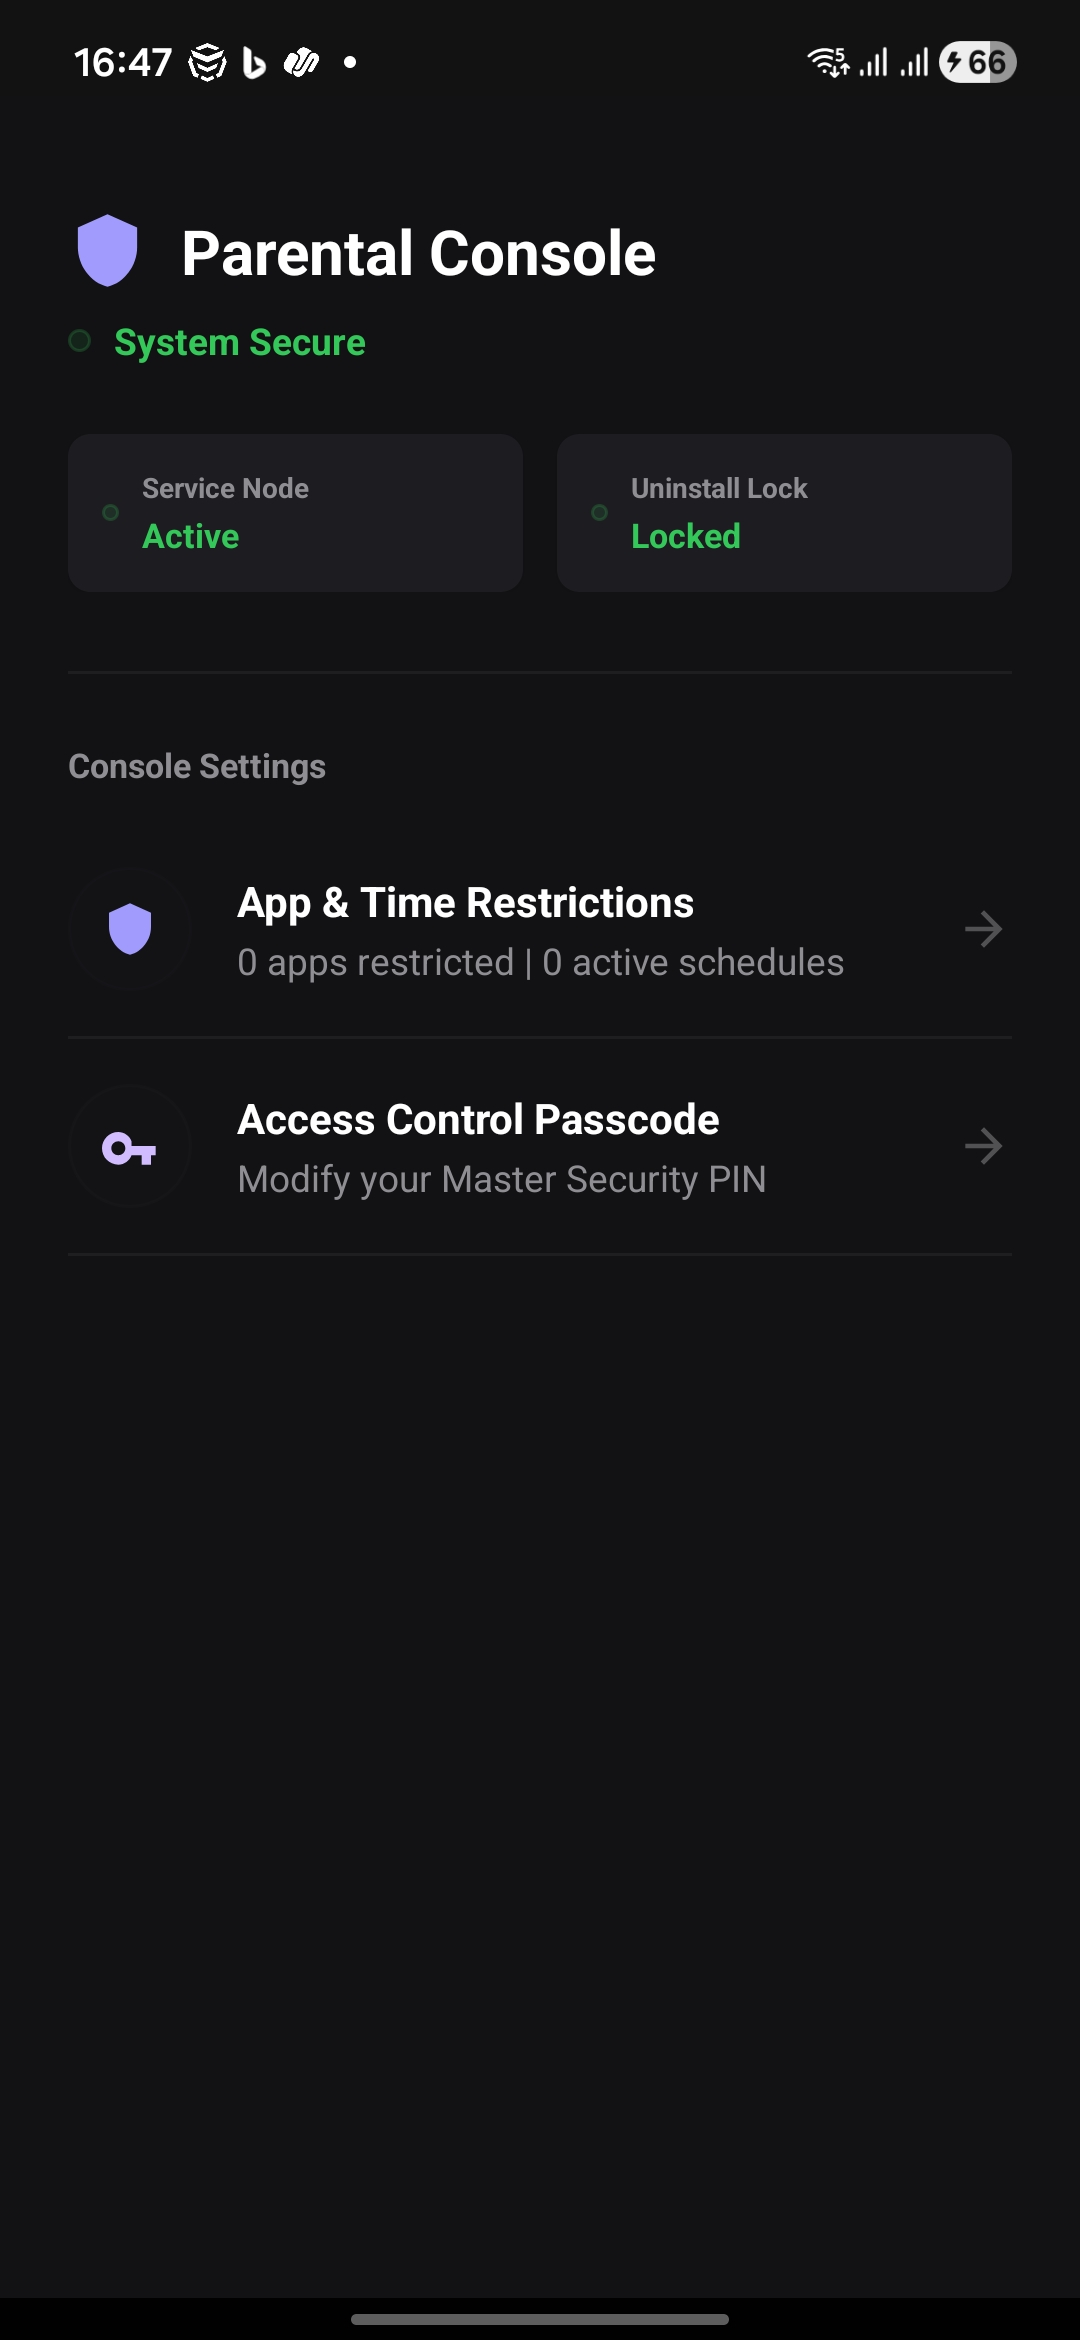
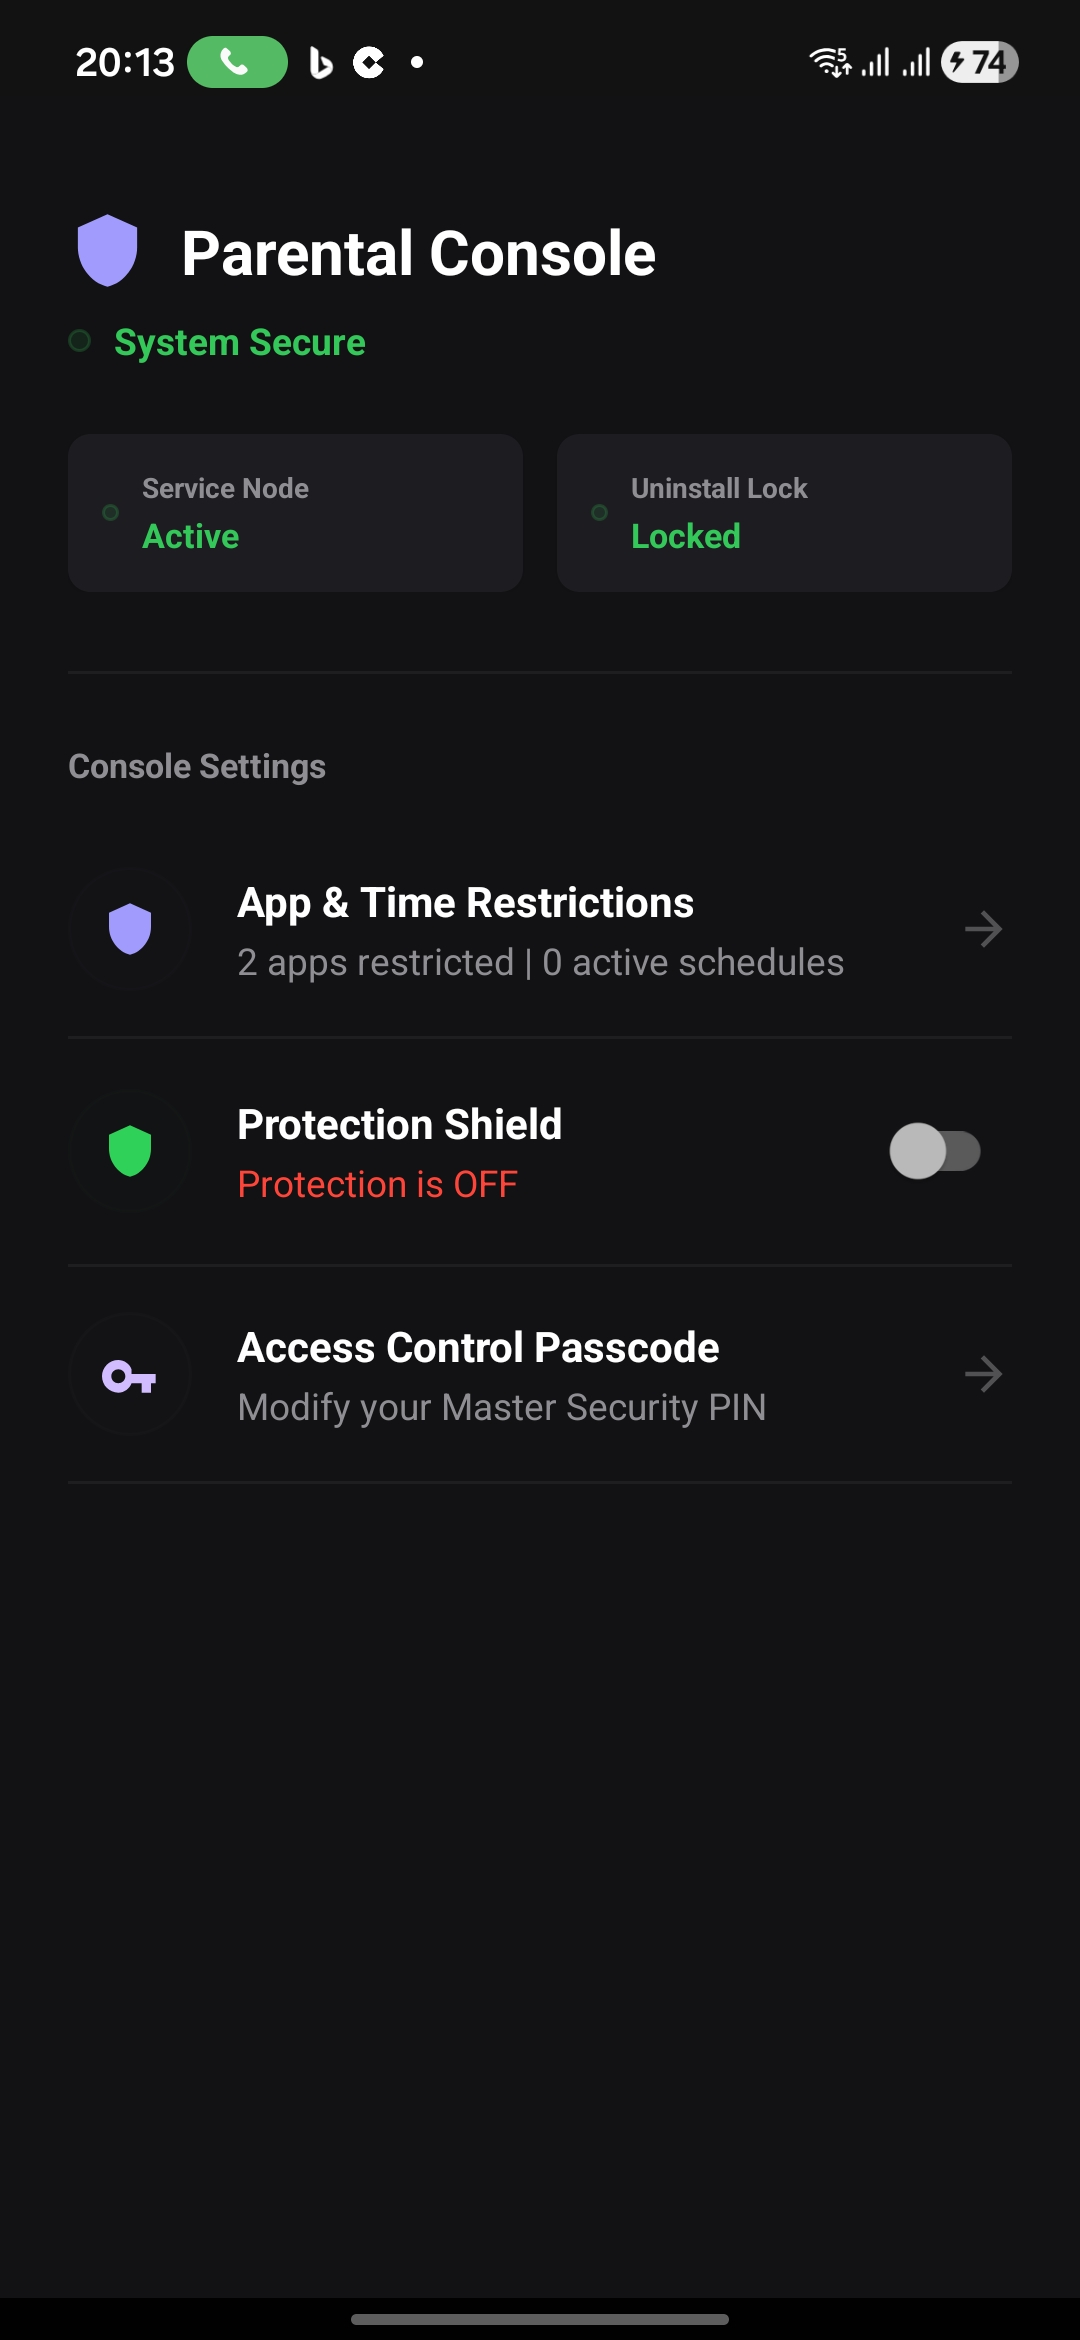
docs: update project documentation and replace primary asset image

diff --git a/README.md b/README.md
@@ -1,6 +1,6 @@
 # Parental Control Android Application
 
-A secure, high-fidelity native Android application engineered for parental device control, content monitoring, and application locking. The system is designed with a handcrafted dark-mode dashboard console, local SHA-256 PIN authentication, dynamic accessibility state listeners, and Package Visibility configurations.
+A secure, lightweight native Android application engineered for parental device control, application locking, and settings protection. Uses a zero-latency WindowManager overlay, instant Settings blocking, and Device Admin anti-uninstall to create an impenetrable lock system.
 
 ## Visual Identity
 
@@ -13,102 +13,159 @@ A secure, high-fidelity native Android application engineered for parental devic
 
 ---
 
+## How It Works
+
+The app uses a three-layer protection model that operates entirely on-device with no network dependency:
+
+### Layer 1: Instant Settings & Installer Blocking
+When the child opens **Settings** or the **Package Installer**, the accessibility service detects it and instantly fires `GLOBAL_ACTION_BACK`. This unwinds their navigation stack before they can tap anything, making it impossible to reach the "Uninstall" or "Disable Accessibility" screens. No overlay, no delay, no brute-force window.
+
+### Layer 2: Zero-Latency PIN Overlay for Blocked Apps
+When a blocked app (e.g., YouTube, Games) is opened, a pre-inflated `WindowManager` overlay draws a full-screen PIN lock in under 10 milliseconds. Because it's drawn by the accessibility service itself (not as a separate Activity), it cannot be swiped away from the Recent Apps menu. Correct PIN entry unlocks the app for the current session with a 15-second grace period for parent access.
+
+### Layer 3: Device Admin Anti-Uninstall
+The app registers as a Device Administrator, which prevents standard uninstallation. Combined with the Settings blocking (Layer 1), the child cannot deactivate this protection.
+
+### Protection Shield Toggle
+A master on/off switch in the dashboard lets parents temporarily disable all blocking without touching Android Accessibility settings. When OFF, the service runs but blocks nothing. When ON, full protection is active.
+
+---
+
 ## Key Capabilities
 
-### Handcrafted Dashboard Redesign
-* **Rectangular Status Badges**: Replaced legacy oval layouts with modern, flat 8dp rounded-corner MaterialCardView elements for accessibility and administration states.
-* **Consolidated System Health**: A unified tri-state system health header (Secure, Action Recommended, Unsecured) updates dynamically depending on device permissions.
-* **Borderless Controls Settings**: Replaced card-nested sections with a modern settings console utilizing horizontal dividers, subtle lavender icons, and right chevrons.
+### Protection Shield Toggle
+* **One-Tap Control**: Enable or disable all blocking from the dashboard instantly.
+* **State Persistence**: Toggle state survives app restarts and screen reboots.
+* **Visual Feedback**: Green status text when active, red when disabled.
+
+### Zero-Latency WindowManager Overlay
+* **Pre-Inflated View**: The PIN screen is built in memory when the service starts, not when an app opens.
+* **TYPE_ACCESSIBILITY_OVERLAY**: Draws above all other windows without requiring the "Display over other apps" permission prompt.
+* **Auto-Relock**: Screen sleep clears all unlocked sessions automatically.
 
 ### Installed Package Discovery (Android 11+ Visibility)
-* Resolves Android package visibility sandbox restrictions on API level 30 and above.
-* Declares the QUERY_ALL_PACKAGES permission, enabling queryIntentActivities to scan and list all installed third-party apps (WhatsApp, YouTube, games) to let parents apply restrictions.
+* Resolves package visibility sandbox restrictions on API level 30+.
+* Declares `QUERY_ALL_PACKAGES` permission to scan and list all installed third-party apps for blocking.
+
+### Time-Based Scheduling
+* Set custom blocked time windows per app (e.g., block games 8 AM – 3 PM on school days).
+* Supports overnight ranges (e.g., 9 PM – 7 AM).
+* Overlap detection prevents conflicting schedules.
 
 ### Secure Offline Keystore Generation
-* An automated generator utility builds self-signed production keys locally using OpenSSL or Java Keytool.
-* Dynamic Gradle integration loads credentials from local isolated properties only if present, falling back gracefully to keep public source code safe.
+* Automated generator utility builds self-signed production keys locally using OpenSSL or Java Keytool.
+* Dynamic Gradle integration loads credentials from isolated properties only if present.
+
+---
+
+## Security Architecture
+
+```
+┌─────────────────────────────────────────────────────────┐
+│                    App Launch Flow                       │
+├─────────────────────────────────────────────────────────┤
+│ App opens → PinActivity (MODE_UNLOCK) → Dashboard        │
+│ (PIN required every time the app is launched)             │
+└─────────────────────────────────────────────────────────┘
+
+┌─────────────────────────────────────────────────────────┐
+│                  Protection Flow                         │
+├─────────────────────────────────────────────────────────┤
+│ Settings/Installer opened → GLOBAL_ACTION_BACK (instant) │
+│ Blocked app opened → PIN overlay → Unlock → 15s grace    │
+│ Protection Shield OFF → All blocking disabled             │
+│ Screen off → All sessions cleared                         │
+│ Back button on overlay → Home screen                      │
+└─────────────────────────────────────────────────────────┘
+
+┌─────────────────────────────────────────────────────────┐
+│                  Anti-Uninstall Flow                     │
+├─────────────────────────────────────────────────────────┤
+│ Device Admin active → Uninstall button grayed out        │
+│ Settings blocked → Cannot reach Device Admin settings    │
+│ Accessibility blocked → Cannot disable the service       │
+└─────────────────────────────────────────────────────────┘
+```
 
 ---
 
 ## Directory Architecture
 
 * `app/` - Primary application module containing Kotlin sources, XML layouts, and assets.
-* `images/` - Directory for visual assets, launcher mockups, and screenshots.
-* `artifacts/` - Output target directory for generated debug and release APK packages (ignored by Git).
-* `.github/workflows/` - Continuous integration workflow definitions for GitHub Actions.
-* `build.sh` - Compiled sandboxed build script running builds inside isolated Docker containers.
-* `generate_keystore.py` - Automation utility script generating keystores, properties mapping files, and base64 strings.
+* `images/` - Visual assets, launcher mockups, and screenshots.
+* `artifacts/` - Output target for generated debug and release APK packages (ignored by Git).
+* `.github/workflows/` - CI/CD workflow definitions for GitHub Actions.
+* `build.sh` - Sandboxed build script running compilations inside isolated Docker containers.
+* `generate_keystore.py` - Automation utility generating keystores, properties files, and base64 strings.
+
+---
+
+## First-Time Setup
+
+1. **Install the APK** on the child's device via ADB or direct transfer.
+2. **Open the app** — you'll be prompted to create a 6-digit PIN.
+3. **Enable Accessibility Service** — tap the "Service Node" badge in the dashboard, find "Parental Control" in the list, and toggle it on.
+4. **Enable Device Admin** — tap the "Uninstall Lock" badge and confirm the system prompt.
+5. **Toggle Protection Shield ON** — use the switch in the dashboard to activate all blocking.
+
+> **Important**: Both Accessibility and Device Admin must be enabled for full protection. The dashboard shows green indicators when both are active.
 
 ---
 
 ## Local Compilation and Build Pipeline
 
-All compilations run inside an isolated, identical build container via Docker, eliminating the need to install the JDK or Android SDK on the host machine.
+All compilations run inside an isolated Docker container, eliminating the need for a local JDK or Android SDK.
 
 ### Prerequisites
 * Docker engine installed and running.
 * ADB command-line utility for device installation.
 
 ### 1. Compile Unsigned Debug Package
-To run pre-flight syntax validations and compile the unsigned debug package:
 ```bash
 ./build.sh
 ```
-* **Output Package**: `artifacts/app-debug.apk`
+* **Output**: `artifacts/app-debug.apk`
 
 ### 2. Compile Signed Release Package
-To package, sign, and build a release APK using your local secure keystore:
-1. Generate local private credentials:
-   ```bash
-   ./generate_keystore.py
-   ```
-2. Compile using the release switch:
-   ```bash
-   ./build.sh --release
-   ```
-* **Output Package**: `artifacts/app-release.apk`
+```bash
+./generate_keystore.py
+./build.sh --release
+```
+* **Output**: `artifacts/app-release.apk`
 
 ---
 
 ## Secure Keystore Setup and Git Protection
 
 ### Automated Credentials Utility
-Run the root generation utility script:
 ```bash
 ./generate_keystore.py
 ```
-The script performs the following actions:
-1. Generates a secure, 16-character alphanumeric password.
-2. Automates OpenSSL or JKS keystore generation based on system availability.
-3. Builds local `keystore.properties` mapped dynamically to Gradle signing configurations.
-4. Outputs the Base64 representation of the binary keystore for remote CI/CD integration.
+Generates a secure password, creates the keystore, builds `keystore.properties`, and outputs the Base64 string for CI/CD.
 
 ### Git Security
-The files `release.keystore` and `keystore.properties` contain highly sensitive private credentials. They are defined inside `.gitignore` and are strictly excluded from being tracked or pushed to public repositories.
+`release.keystore` and `keystore.properties` are excluded from Git tracking via `.gitignore`. Never commit these files.
 
 ---
 
 ## Continuous Integration and Deployment (GitHub Actions)
 
-A pre-configured CI/CD workflow is declared at `.github/workflows/android.yml` to compile and sign production APKs on every repository push.
+A pre-configured CI/CD workflow at `.github/workflows/android.yml` compiles and signs production APKs on every push.
 
-### Required Repository Secrets Configuration
-To enable signed remote builds, configure the following secrets inside your GitHub Repository settings (Settings -> Secrets and variables -> Actions -> New repository secret):
+### Required Repository Secrets
 
-| Secret Name | Secret Value Source | Description |
+| Secret Name | Value Source | Description |
 | :--- | :--- | :--- |
-| `KEYSTORE_BASE64` | Output from `generate_keystore.py` | Base64 text string representing your binary keystore file. |
-| `KEYSTORE_PASSWORD` | Output from `generate_keystore.py` | The master keystore password. |
-| `KEY_ALIAS` | `parentalcontrol-alias` | The key alias within the keystore. |
-| `KEY_PASSWORD` | Output from `generate_keystore.py` | The key-specific password. |
+| `KEYSTORE_BASE64` | `generate_keystore.py` output | Base64 string of the binary keystore. |
+| `KEYSTORE_PASSWORD` | `generate_keystore.py` output | Master keystore password. |
+| `KEY_ALIAS` | `parentalcontrol-alias` | Key alias within the keystore. |
+| `KEY_PASSWORD` | `generate_keystore.py` output | Key-specific password. |
 
-Once the pipeline completes, the signed release APK is automatically published directly to the **Releases** section of your GitHub repository. You can download the raw, pre-compiled signed `app-release.apk` with a single click from the Releases page (mapped to the `latest` tag).
+Signed APKs are published to the **Releases** section (mapped to the `latest` tag).
 
 ---
 
 ## Physical Device Installation
-
-To deploy a compiled APK directly to your connected physical test device:
 
 ```bash
 # Debug APK
@@ -122,15 +179,21 @@ adb install artifacts/app-release.apk
 
 ## PIN Recovery (Forgot PIN)
 
-If you forget the parental PIN, clear the app data via ADB to reset it:
+Clear the app data via ADB to reset the PIN:
 
 ```bash
 adb shell pm clear com.parentalcontrol
 ```
 
-This wipes the stored PIN hash, blocklist, and all app settings. The next time you open the app, it will prompt you to create a new 6-digit PIN. Device Admin privileges remain intact.
+This wipes the stored PIN hash, blocklist, and all settings. The next launch prompts you to create a new 6-digit PIN.
 
-**Note:** This also resets the Accessibility permission. You must re-enable it:
+**Note:** This also resets the Accessibility permission. Re-enable it:
 1. Go to **Settings → Accessibility → Parental Control**
 2. Toggle the service back on
 3. Confirm in the system dialog
+
+---
+
+## Package Name
+
+`com.parentalcontrol`
